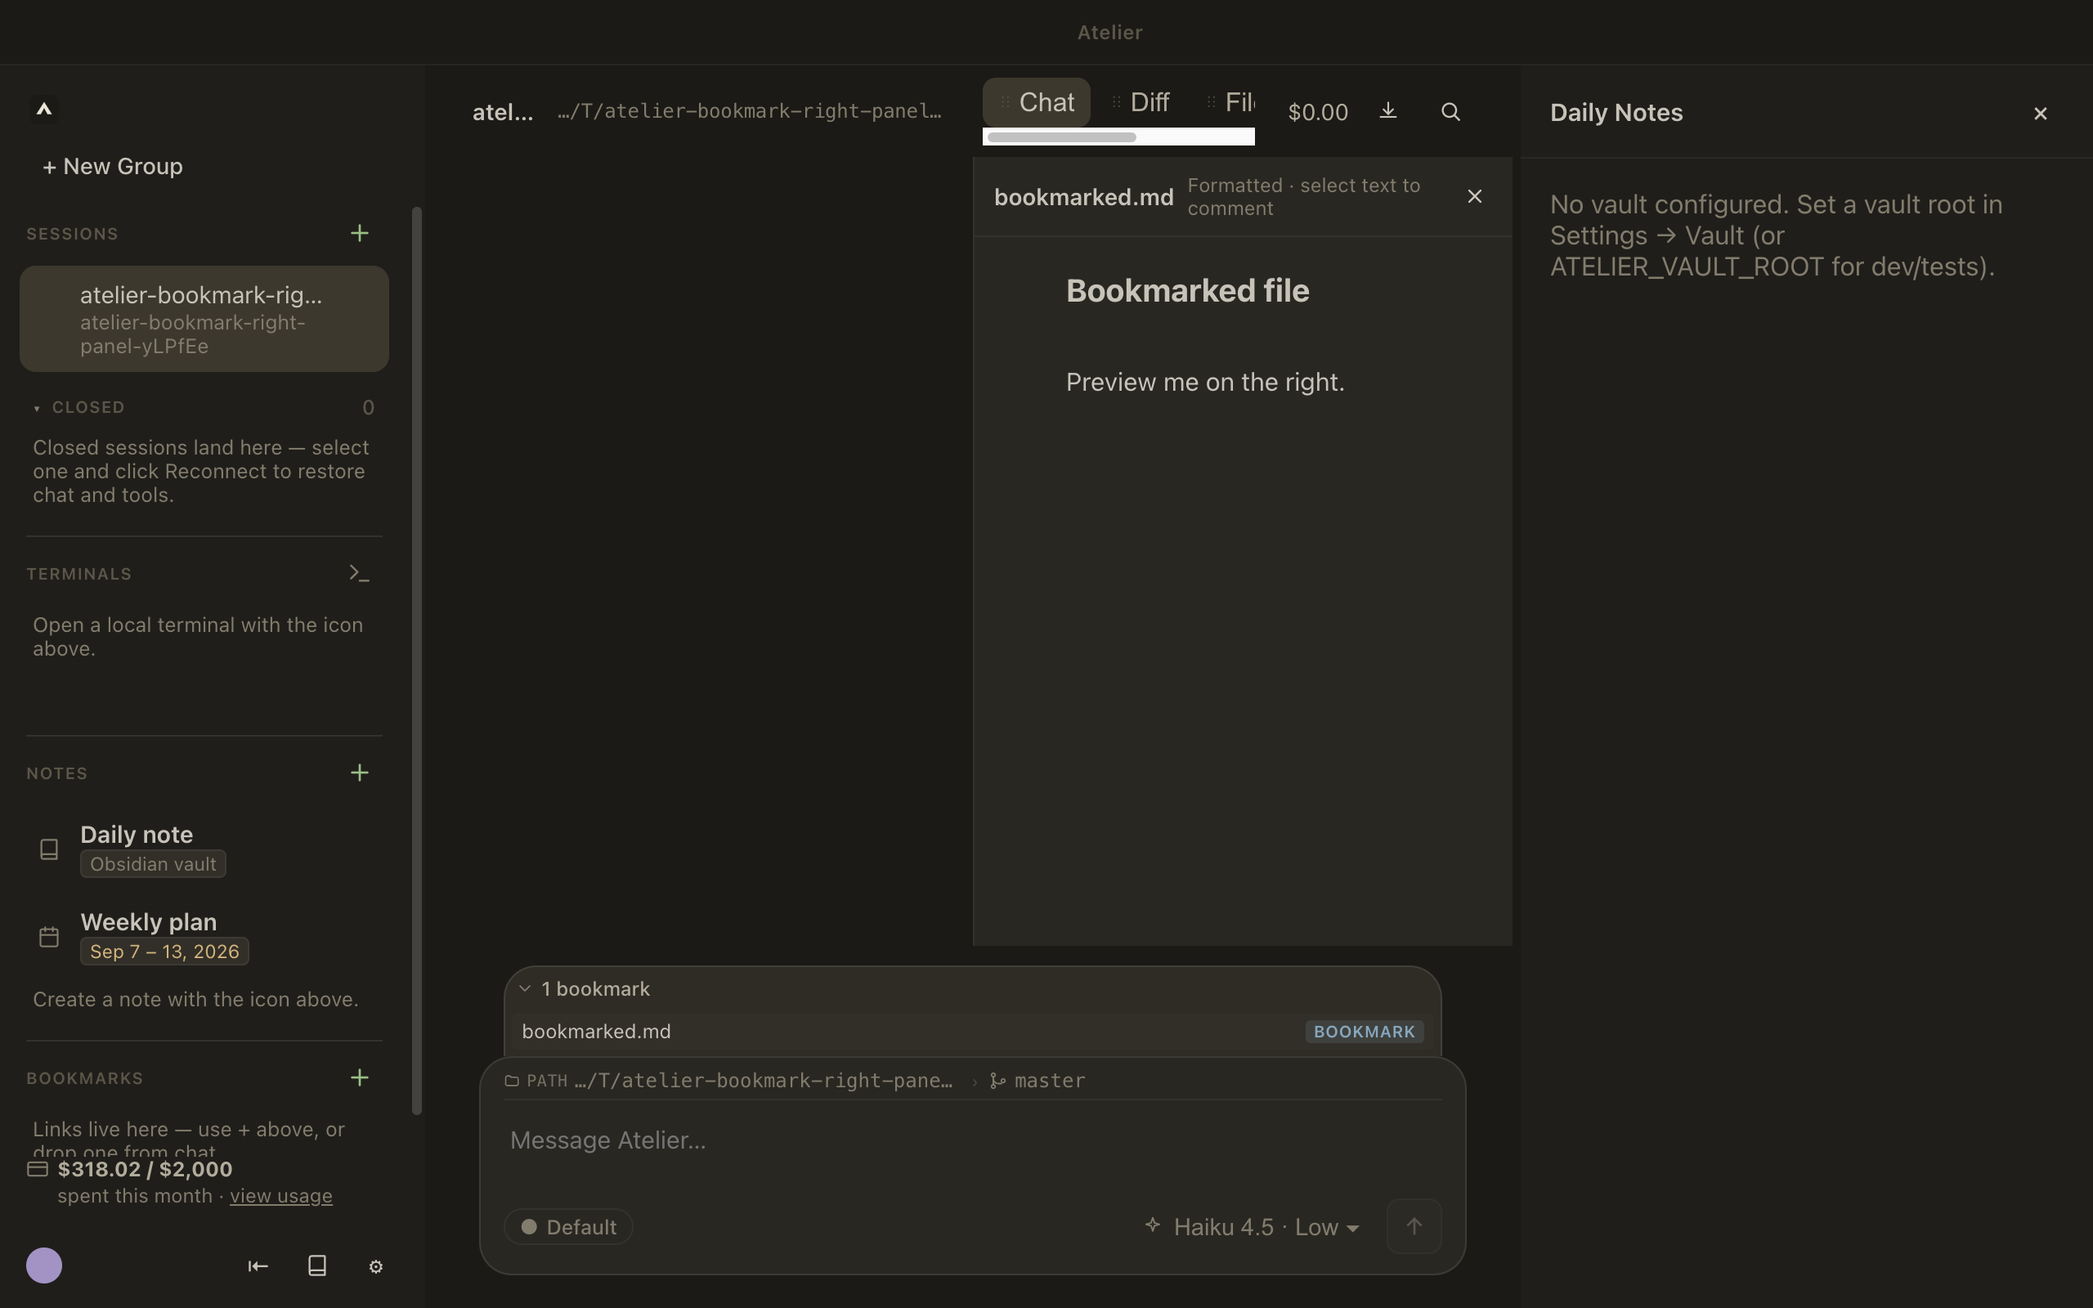
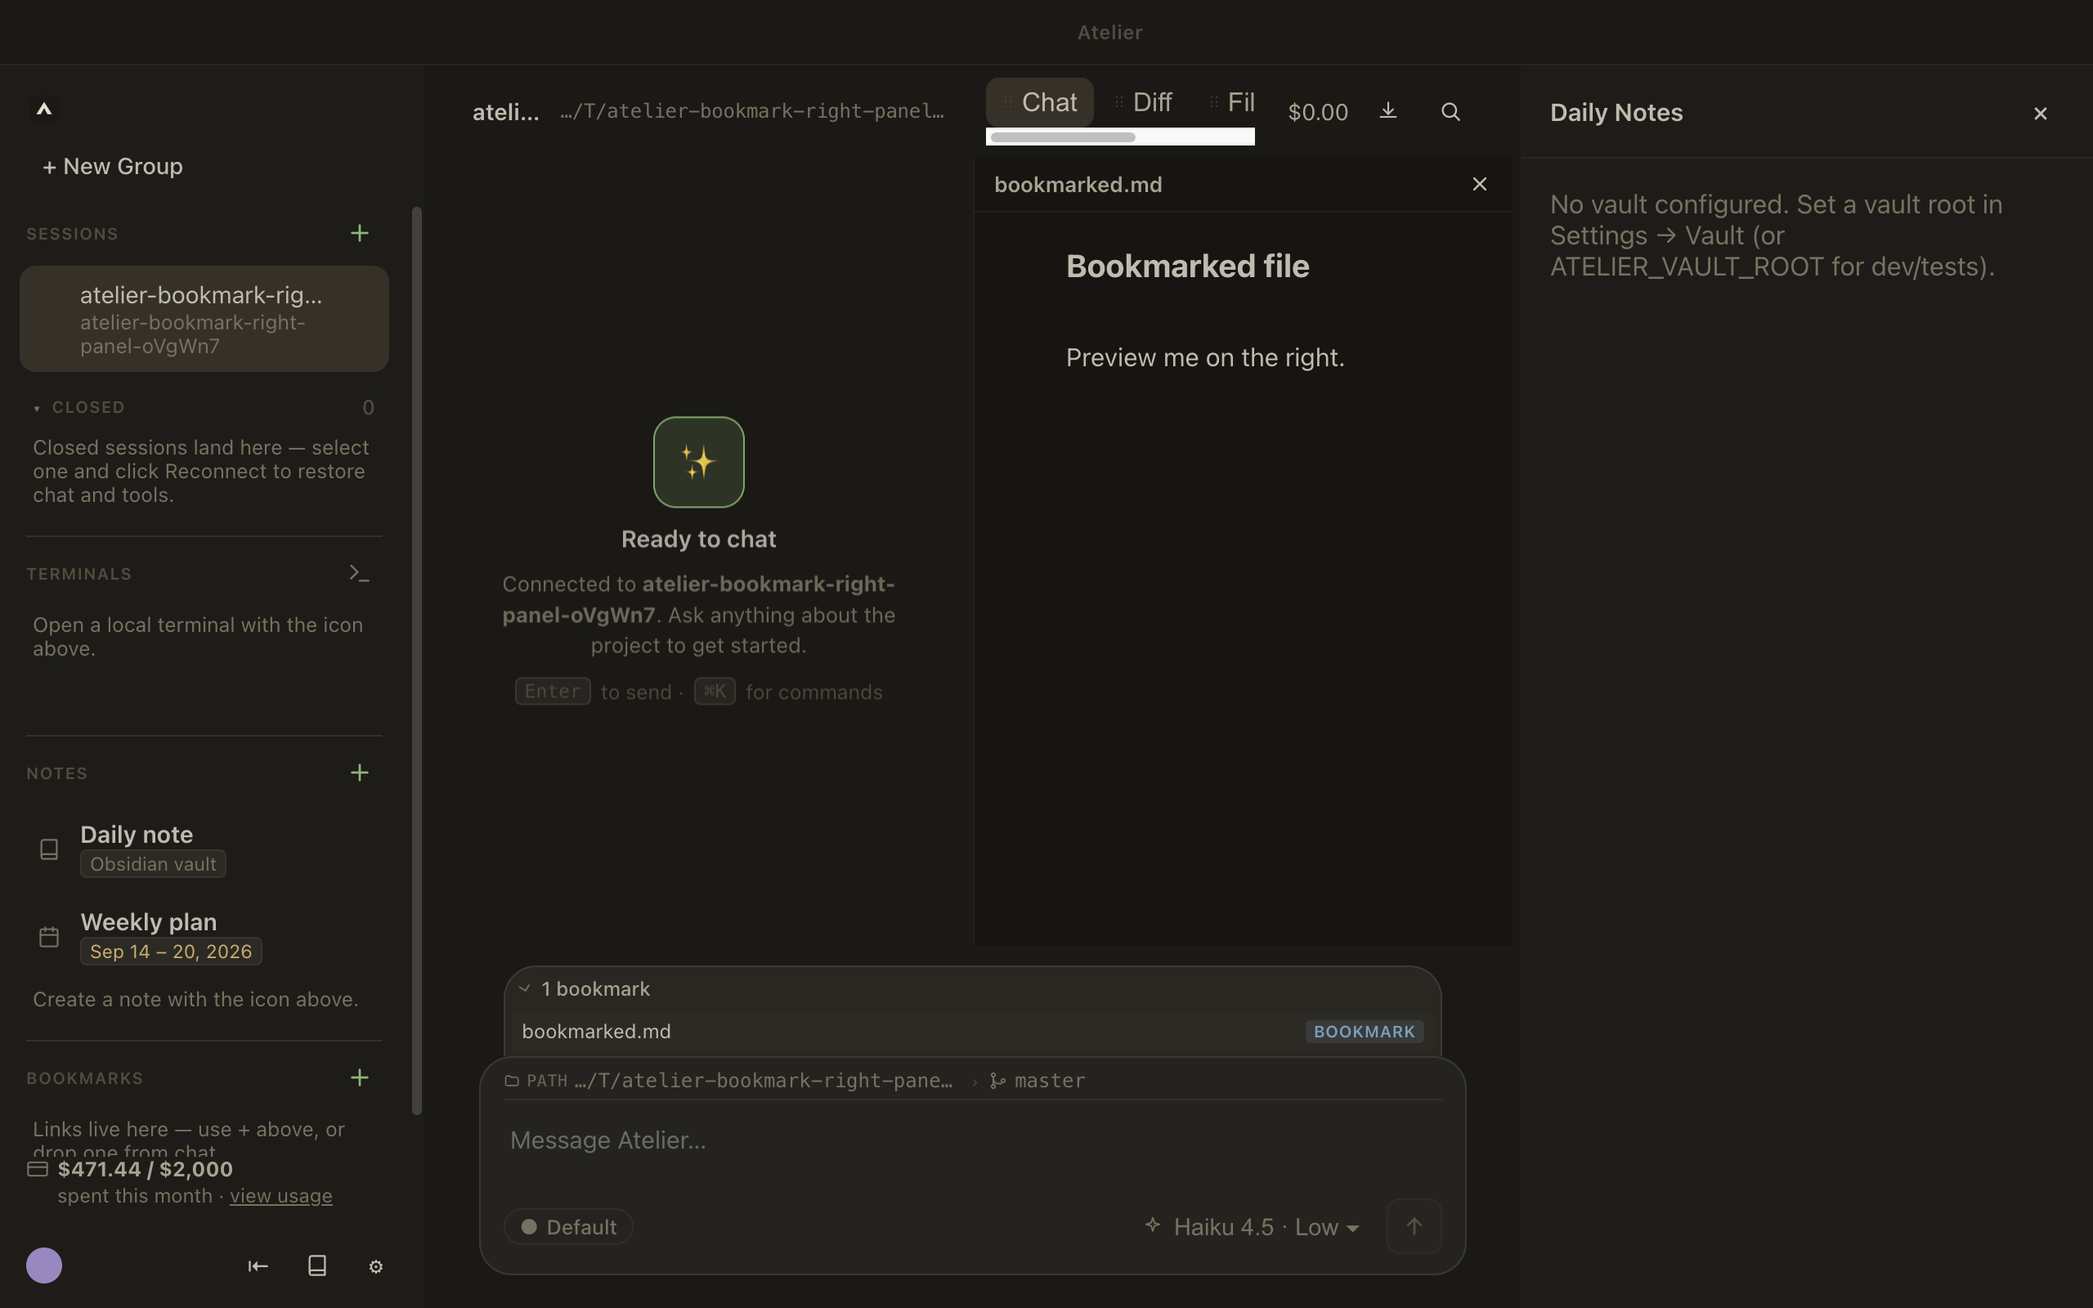
Give the review pane one document surface and compact chrome.
Drop the panel-grey frame around the editor, share --bg-code across markdown and Monaco variants, and match the title bar to other 34px panel headers so the right pane reads as a single document viewer.

diff --git a/e2e/ui-review-pane-chrome.spec.ts b/e2e/ui-review-pane-chrome.spec.ts
@@ -1,0 +1,181 @@
+/**
+ * The file (Monaco) variant of the right-hand review pane used to frame a
+ * `--bg-code` editor inside a `--bg-panel` shell: 8px of body padding above it
+ * and a 28px comment gutter beside it, both panel-grey, read as a wide grey
+ * border. Its title bar was also taller and heavier than every other panel
+ * header in the app. This pins both down.
+ */
+import { test, expect, _electron as electron } from '@playwright/test'
+import { execFileSync } from 'node:child_process'
+import { mkdirSync, mkdtempSync, writeFileSync } from 'node:fs'
+import { tmpdir } from 'node:os'
+import { join } from 'node:path'
+import { seedSkipOnboarding } from './e2e-config'
+
+const projectRoot = join(__dirname, '..')
+const artifactsDir = join(projectRoot, 'e2e-artifacts')
+
+/** The app's compact panel-header height, shared with the terminal header. */
+const PANEL_HEADER_HEIGHT = 34
+
+function fixtureRepo(): string {
+  const dir = mkdtempSync(join(tmpdir(), 'atelier-review-pane-chrome-'))
+  execFileSync('git', ['init', '-q'], { cwd: dir })
+  execFileSync('git', ['config', 'user.email', 'e2e@example.com'], { cwd: dir })
+  execFileSync('git', ['config', 'user.name', 'E2E'], { cwd: dir })
+  // No `.md` extension → review pane renders the Monaco (syntax-highlighted) variant.
+  writeFileSync(
+    join(dir, 'instructions.txt'),
+    Array.from({ length: 24 }, (_, i) => `Line ${i + 1}: review pane chrome fixture content.`).join('\n')
+  )
+  execFileSync('git', ['add', '.'], { cwd: dir })
+  execFileSync('git', ['commit', '-qm', 'fixture'], { cwd: dir })
+  return dir
+}
+
+test('file review pane: editor is full-bleed and the title bar matches panel headers', async () => {
+  test.setTimeout(120_000)
+  const userDataDir = mkdtempSync(join(tmpdir(), 'atelier-review-pane-chrome-profile-'))
+  mkdirSync(userDataDir, { recursive: true })
+  seedSkipOnboarding(userDataDir)
+  const repoDir = fixtureRepo()
+
+  const app = await electron.launch({
+    args: ['.', `--user-data-dir=${userDataDir}`],
+    cwd: projectRoot
+  })
+  const page = await app.firstWindow()
+  try {
+    await page.waitForLoadState('domcontentloaded')
+    await expect(page.getByTestId('new-session-button')).toBeVisible({ timeout: 20_000 })
+
+    const session = await page.evaluate(
+      (projectPath) =>
+        window.atelier.createSession({
+          projectPath,
+          mode: 'claude-code',
+          hostId: 'local',
+          suggestedName: 'Review pane chrome',
+          initialPrompt: 'Reply with exactly READY and do not use tools.'
+        }),
+      repoDir
+    )
+
+    const row = page.locator(`[data-testid="session-row"][data-session-id="${session.id}"]`)
+    await expect(row).toBeVisible({ timeout: 20_000 })
+    await row.click()
+    await expect(page.getByTestId('composer-input')).toBeVisible({ timeout: 30_000 })
+
+    await page.evaluate(
+      ({ sessionId, target }) =>
+        window.atelier.addSessionBookmark(sessionId, {
+          kind: 'file',
+          target,
+          label: 'instructions.txt'
+        }),
+      { sessionId: session.id, target: join(repoDir, 'instructions.txt') }
+    )
+
+    const bookmarks = page.getByTestId('chat-changes-bookmarks')
+    await expect(bookmarks).toBeVisible({ timeout: 15_000 })
+    const toggle = bookmarks.locator('.chat-changes-toggle')
+    if ((await toggle.getAttribute('aria-expanded')) === 'false') await toggle.click()
+    await bookmarks
+      .locator('[data-testid="chat-bookmark-row"][data-bookmark-kind="file"]')
+      .click()
+
+    const pane = page.getByTestId('response-review-pane')
+    await expect(pane).toBeVisible({ timeout: 15_000 })
+    await expect(pane).toHaveAttribute('data-review-kind', 'file')
+    await expect(page.getByTestId('response-review-file-monaco')).toBeVisible({ timeout: 20_000 })
+
+    await page.screenshot({ path: join(artifactsDir, 'ui-review-pane-file-chrome.png') })
+    await pane.screenshot({ path: join(artifactsDir, 'ui-review-pane-file-chrome-closeup.png') })
+
+    const head = pane.locator('.response-review-head')
+
+    // Pixel proof that the frame is gone. The old chrome painted panel-grey in
+    // an L around the editor: a band under the header (body padding) and a
+    // column down the left (comment gutter). Sample one point in each; both
+    // must now be the editor's own surface.
+    const headHeight = await head.evaluate((el) => el.getBoundingClientRect().height)
+    const framePixels = await page.evaluate(
+      async ({ shot, top }) => {
+        const binary = atob(shot)
+        const bytes = new Uint8Array(binary.length)
+        for (let i = 0; i < binary.length; i += 1) bytes[i] = binary.charCodeAt(i)
+        const bitmap = await createImageBitmap(new Blob([bytes], { type: 'image/png' }))
+        const canvas = new OffscreenCanvas(bitmap.width, bitmap.height)
+        const ctx = canvas.getContext('2d')!
+        ctx.drawImage(bitmap, 0, 0)
+        const pane = document.querySelector('.response-review-pane') as HTMLElement
+        const scale = bitmap.width / pane.clientWidth
+        const at = (xCss: number, yCss: number): string => {
+          const d = ctx.getImageData(Math.round(xCss * scale), Math.round(yCss * scale), 1, 1).data
+          return `${d[0]},${d[1]},${d[2]}`
+        }
+        const editor = getComputedStyle(
+          document.querySelector('.response-review-file-monaco-host')!
+        )
+          .backgroundColor.match(/\d+/g)!
+          .slice(0, 3)
+          .join(',')
+        return {
+          // Empty stretch of the title bar, between the title and the close button.
+          header: at(pane.clientWidth * 0.6, top / 2),
+          // Was the 8px body padding band.
+          underHeader: at(pane.clientWidth / 2, top + 3),
+          // Was the 28px panel-grey comment gutter.
+          leftOfEditor: at(4, top + 40),
+          editor
+        }
+      },
+      { shot: (await pane.screenshot()).toString('base64'), top: headHeight }
+    )
+    expect(framePixels.underHeader).toBe(framePixels.editor)
+    expect(framePixels.leftOfEditor).toBe(framePixels.editor)
+    // Title bar shares the same surface, so the pane reads as one document.
+    expect(framePixels.header).toBe(framePixels.editor)
+
+    // ...and the style behind it: the pane itself owns the document background,
+    // leaving the body and gutter nothing of their own to paint.
+    const surfaces = await page.evaluate(() => {
+      const body = document.querySelector('.response-review-body') as HTMLElement
+      return {
+        editor: getComputedStyle(
+          document.querySelector('.response-review-file-monaco-host')!
+        ).backgroundColor,
+        pane: getComputedStyle(document.querySelector('.response-review-pane')!).backgroundColor,
+        bodyPaddingTop: getComputedStyle(body).paddingTop
+      }
+    })
+    expect(surfaces.pane).toBe(surfaces.editor)
+    expect(surfaces.bodyPaddingTop).toBe('0px')
+
+    // Title bar matches the compact panel-header language.
+    const headBox = await head.boundingBox()
+    expect(headBox).toBeTruthy()
+    expect(headBox!.height).toBeLessThanOrEqual(PANEL_HEADER_HEIGHT)
+
+    const headStyle = await head.evaluate((el) => {
+      const title = el.querySelector('[data-testid="response-review-title"]')!
+      return {
+        borderBottomWidth: getComputedStyle(el).borderBottomWidth,
+        titleSize: getComputedStyle(title).fontSize
+      }
+    })
+    expect(headStyle.titleSize).toBe('13px')
+    // Only a hairline separates header from content now that they share a surface.
+    expect(headStyle.borderBottomWidth).toBe('1px')
+
+    await expect(pane).not.toContainText('select text to comment')
+    await expect(pane.locator('.response-review-sub')).toHaveCount(0)
+
+    const close = page.getByTestId('response-review-close')
+    const closeBox = await close.boundingBox()
+    const paneBox = await pane.boundingBox()
+    expect(closeBox!.x + closeBox!.width).toBeLessThanOrEqual(paneBox!.x + paneBox!.width)
+  } finally {
+    await app.close().catch(() => undefined)
+  }
+})

diff --git a/src/renderer/src/styles/global.css b/src/renderer/src/styles/global.css
@@ -1443,7 +1443,11 @@ input[type='range'] {
 .msg-actions button.review-active { color: var(--accent); background: var(--accent-dim); }
 .msg-wrap.response-review-selected { outline: 2px solid color-mix(in srgb, var(--accent) 55%, transparent); outline-offset: 4px; border-radius: var(--r-md); }
 
-.response-review-pane { flex-shrink: 0; border-left: 1px solid var(--border-subtle); display: flex; flex-direction: column; min-height: 0; background: var(--bg-panel); min-width: 0; }
+/* .response-review-pane is one surface end to end, on the same document
+   background the Files preview, diff editor and note editors use — so the
+   chrome, the prose and the embedded editor never disagree about what the
+   pane is sitting on. */
+.response-review-pane { flex-shrink: 0; border-left: 1px solid var(--border-subtle); display: flex; flex-direction: column; min-height: 0; background: var(--bg-code); min-width: 0; }
 .response-review-split-handle { width: 5px; flex-shrink: 0; cursor: col-resize; background: transparent; align-self: stretch; }
 .response-review-split-handle:hover { background: var(--accent); }
 .chat-body-row.response-review-open { overflow: hidden; min-height: 0; }
@@ -1451,8 +1455,9 @@ input[type='range'] {
 .chat-body-row.response-review-open .chat-main-col { min-width: 0; flex: 1 1 0; overflow-y: auto; min-height: 0; }
 .chat-body-row.response-review-open .response-review-split-handle,
 .chat-body-row.response-review-open .response-review-pane { align-self: stretch; flex-shrink: 0; }
-.response-review-head { display: flex; align-items: center; gap: 8px; padding: 10px 12px; border-bottom: 1px solid var(--border-subtle); font-size: 14px; font-weight: 600; flex-shrink: 0; }
-.response-review-sub { font-size: 12px; font-weight: 400; color: var(--text-tertiary); margin-right: auto; min-width: 0; }
+/* Compact panel-header language, shared with the terminal and files headers. */
+.response-review-head { display: flex; align-items: center; gap: 8px; min-height: 34px; box-sizing: border-box; padding: 0 6px 0 12px; border-bottom: 1px solid var(--border-subtle); font-size: 13px; font-weight: 600; color: var(--text-secondary); flex-shrink: 0; }
+.response-review-title { white-space: nowrap; flex-shrink: 0; margin-right: auto; min-width: 0; overflow: hidden; text-overflow: ellipsis; }
 .response-review-body { flex: 1; overflow-y: auto; padding: 8px 0; min-height: 0; position: relative; }
 .response-review-rendered-lines {
   padding: 4px 12px 12px;
@@ -1495,7 +1500,7 @@ input[type='range'] {
   padding: 0;
 }
 .response-review-block.mixed {
-  background: color-mix(in srgb, var(--accent) 8%, var(--bg-panel));
+  background: color-mix(in srgb, var(--accent) 8%, var(--bg-code));
   border: 1px solid color-mix(in srgb, var(--accent) 18%, var(--border-subtle));
 }
 .response-review-block-content {
@@ -1514,12 +1519,8 @@ input[type='range'] {
   grid-template-columns: 28px minmax(0, 1fr);
   align-items: start;
 }
-.response-review-body--monaco {
-  overflow: hidden;
-  display: flex;
-  flex-direction: column;
-  padding-bottom: 0;
-}
+/* Zero padding so the embedded editor runs edge to edge under the header. */
+.response-review-body--monaco { overflow: hidden; display: flex; flex-direction: column; padding: 0; }
 .response-review-content-grid--monaco {
   flex: 1;
   min-height: 0;

diff --git a/Features/UI-Design/mocks/index.html b/Features/UI-Design/mocks/index.html
@@ -1213,15 +1213,15 @@
   .msg-actions button.review-active { color: var(--accent); background: var(--accent-dim); }
 
   /* Response review split (chat tab): readonly assistant message on the right with per-line comments → composer. */
-  .response-review-pane { flex-shrink: 0; border-left: 1px solid var(--border-subtle); display: flex; flex-direction: column; min-height: 0; background: var(--bg-panel); min-width: 0; }
+  .response-review-pane { flex-shrink: 0; border-left: 1px solid var(--border-subtle); display: flex; flex-direction: column; min-height: 0; background: var(--bg-code); min-width: 0; }
   .response-review-pane.hidden { display: none; }
   .response-review-split-handle { width: 5px; flex-shrink: 0; cursor: col-resize; background: transparent; align-self: stretch; }
   .response-review-split-handle.hidden { display: none; }
   .response-review-split-handle:hover { background: var(--accent); }
   .chat-body-row.response-review-open .tracker-rail { display: none; }
   .chat-body-row.response-review-open .chat-main-col { min-width: 0; flex: 1 1 0; }
-  .response-review-head { display: flex; align-items: center; gap: 8px; padding: 10px 12px; border-bottom: 1px solid var(--border-subtle); font-size: 14px; font-weight: 600; flex-shrink: 0; }
-  .response-review-sub { font-size: 12px; font-weight: 400; color: var(--text-tertiary); margin-right: auto; min-width: 0; }
+  .response-review-head { display: flex; align-items: center; gap: 8px; min-height: 34px; box-sizing: border-box; padding: 0 6px 0 12px; border-bottom: 1px solid var(--border-subtle); font-size: 13px; font-weight: 600; color: var(--text-secondary); flex-shrink: 0; }
+  .response-review-title { white-space: nowrap; flex-shrink: 0; margin-right: auto; min-width: 0; overflow: hidden; text-overflow: ellipsis; }
   .response-review-body { flex: 1; overflow-y: auto; padding: 8px 0; min-height: 0; position: relative; }
   .response-review-rendered-lines { padding: 4px 12px 12px; font-size: var(--font-agent-message-size); line-height: 1.6; user-select: text; }
   .response-review-selection-chip { position: absolute; z-index: 3; display: flex; padding: 2px; background: var(--bg-panel-raised); border: 1px solid var(--border-default); border-radius: 7px; box-shadow: var(--shadow-panel); }
@@ -1833,8 +1833,7 @@ src/auth/session-bootstrap.ts:22:    this.scheduleRefresh(loginResponse.expiresA
               <div class="response-review-split-handle hidden" id="responseReviewHandle-s1" onmousedown="startResponseReviewResize(event, 's1')"></div>
               <aside class="response-review-pane hidden" id="responseReview-s1" data-session="s1">
                 <div class="response-review-head">
-                  <span id="responseReviewTitle-s1">Response review</span>
-                  <span class="response-review-sub">Formatted · select text to comment</span>
+                  <span class="response-review-title" id="responseReviewTitle-s1">Response review</span>
                   <button class="btn btn-icon btn-sm" title="Close review pane" onclick="closeResponseReview('s1')"><svg class="icon" width="14" height="14"><use href="#icon-close"/></svg></button>
                 </div>
                 <div class="response-review-body" id="responseReviewBody-s1">

diff --git a/src/shared/review-pane-types.ts b/src/shared/review-pane-types.ts
@@ -19,24 +19,6 @@ export function reviewPaneTitle(target: ReviewPaneTarget): string {
   return 'Response review'
 }
 
-export function reviewPaneSubtitle(target: ReviewPaneTarget): string {
-  if (target.kind === 'file' && !reviewPaneUsesMarkdown(target)) {
-    return reviewPaneHasDiff(target)
-      ? 'Syntax-highlighted · inline diff · select text to comment'
-      : 'Syntax-highlighted · select text to comment'
-  }
-  if (target.kind === 'file' && reviewPaneHasDiff(target)) {
-    return 'Formatted · inline diff · select text to comment'
-  }
-  if (target.kind === 'file') {
-    return 'Formatted · select text to comment'
-  }
-  if (target.kind === 'plan' && target.previousContent != null && target.previousContent !== '') {
-    return 'Formatted · inline diff · select text to comment'
-  }
-  return 'Formatted · select text to comment'
-}
-
 export function reviewPaneHasDiff(target: ReviewPaneTarget): boolean {
   if (target.kind === 'file') return target.previousContent !== undefined
   return target.kind === 'plan' && target.previousContent != null && target.previousContent !== ''

diff --git a/src/renderer/src/components/chat/ResponseReviewPanel.tsx b/src/renderer/src/components/chat/ResponseReviewPanel.tsx
@@ -19,7 +19,6 @@ import {
   formatReviewComposerNote,
   reviewPaneCommentPrefix,
   reviewPaneHasDiff,
-  reviewPaneSubtitle,
   reviewPaneTitle,
   reviewPaneUsesMarkdown,
   type ReviewComposerComment,
@@ -560,8 +559,9 @@ export default function ResponseReviewPanel({
         style={paneWidthPx != null ? { width: paneWidthPx, flex: '0 0 auto' } : { width: `${DEFAULT_PANE_FRACTION * 100}%` }}
       >
         <div className="response-review-head">
-          <span data-testid="response-review-title">{reviewPaneTitle(target)}</span>
-          <span className="response-review-sub">{reviewPaneSubtitle(target)}</span>
+          <span className="response-review-title" data-testid="response-review-title">
+            {reviewPaneTitle(target)}
+          </span>
           <button
             type="button"
             className="btn btn-icon btn-sm"

diff --git a/e2e/bug-bookmark-file-right-panel.spec.ts b/e2e/bug-bookmark-file-right-panel.spec.ts
@@ -88,7 +88,7 @@ test('standalone file bookmark opens in the right review panel, not Files', asyn
       'data-has-plan-diff',
       'false'
     )
-    await expect(page.locator('.response-review-sub')).not.toContainText('inline diff')
+    await expect(page.locator('.response-review-sub')).toHaveCount(0)
     await expect(page.getByTestId('response-review-content')).toContainText('Preview me on the right.')
     await expect(
       page.getByTestId('session-workspace-tabs').locator(':scope > [data-tab="chat"]')
